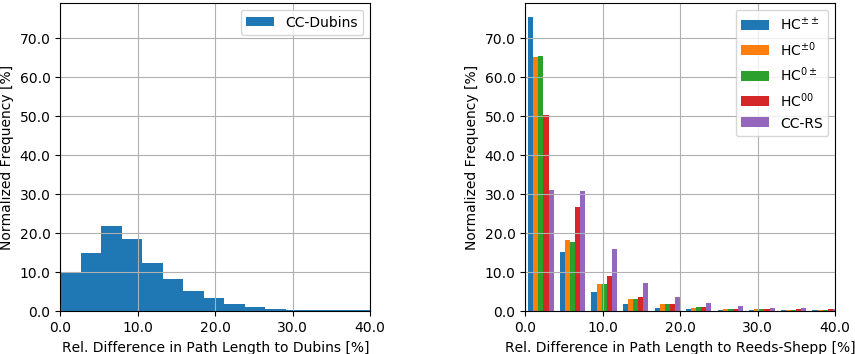
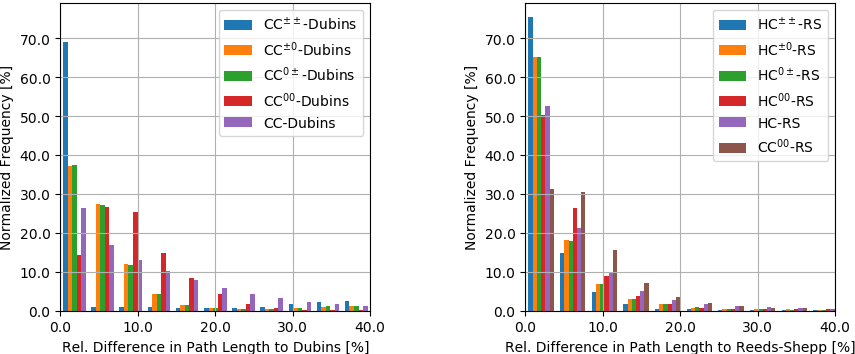
Updated README

diff --git a/README.md b/README.md
@@ -9,10 +9,8 @@ Steering Function           | Driving Direction          | Continuity       | Op
 Dubins                      | forwards **or** backwards  | G<sup>1</sup> | path length (optimal)
 CC-Dubins                   | forwards **or** backwards  | G<sup>2</sup> | path length (suboptimal)
 Reeds-Shepp                 | forwards **and** backwards | G<sup>1</sup> | path length (optimal)
-HC-Reeds-Shepp<sup>*</sup>  | forwards **and** backwards | G<sup>2</sup> btw. cusps | path length (suboptimal)
+HC-Reeds-Shepp              | forwards **and** backwards | G<sup>2</sup> btw. cusps | path length (suboptimal)
 CC-Reeds-Shepp              | forwards **and** backwards | G<sup>2</sup> | path length (suboptimal)
-
-<sub><sup>*</sup> HC-Reeds-Shepp is given with all its derivatives, namely HC<sup>00</sup>, HC<sup>0±</sup>, HC<sup>±0</sup>, and HC<sup>±±</sup>, where the superscript indicates the curvature at the start and goal configuration (± stands for maximum positive or negative curvature).</sub>
 
 [![Steering Functions for Car-Like Robots](https://img.youtube.com/vi/YCT8ycMk6f8/0.jpg)](http://www.youtube.com/watch?v=YCT8ycMk6f8)
 
@@ -132,9 +130,9 @@ In addition to that, this package is capable of computing a Gaussian belief alon
 ### Start and Goal State
 All steering functions expect a start state **x**<sub>*s*</sub> = *[x<sub>s</sub>, y<sub>s</sub>, theta<sub>s</sub>, kappa<sub>s</sub>, d<sub>s</sub>]<sup>T</sup>* and a goal state **x**<sub>*g*</sub> = *[x<sub>g</sub>, y<sub>g</sub>, theta<sub>g</sub>, kappa<sub>g</sub>, d<sub>g</sub>]<sup>T</sup>* as input. Note that the initial and final driving direction are selected by the steering function according to the computed path. They can not be selected manually, therefore, leave *d<sub>s</sub>* = *d<sub>g</sub>* = 0.
 
-Additonally, the steering functions Dubins, CC-Dubins, Reeds-Shepp, HC<sup>00</sup>-Reeds-Shepp, and CC-Reeds-Shepp only expect initial and final position and orientation, however, ignore manually set inital and final curvature. Therefore, it is recommended to set *kappa<sub>s</sub>* = *kappa<sub>g</sub>* = 0, and the steering function will select the appropriate values.
+Depending on the two superscripts in the name of the steering function (see Section *Computation Times* for an overview), a different curvature is applied to the start (first superscript) and goal state (second superscript). The superscript 0 denotes that zero curvature is enfored no matter which curvature is given at that state. The superscript ± indicates that either positive or negative max. curvature is selected by the steering function if the user inputs no curvature. However, if a non-zero curvature is assigned, the steering function computes that path with the corresponding signed maximum curvature. This feature can be useful in sampling-based motion planners when cuvature continuity has to be ensured at the connection of two extensions.
 
-In contrast to that, HC<sup>±0</sup>-, HC<sup>0±</sup>-, and HC<sup>±±</sup>-Reeds-Shepp allow to assign the signed maximum curvature to the start (HC<sup>±0</sup>), goal (HC<sup>0±</sup>), or to the start and goal state (HC<sup>±±</sup>). This feature can be useful in sampling-based motion planners when cuvature continuity has to be ensured at the connection of two extensions. If this feature is not desired, just set *kappa<sub>s</sub>* = *kappa<sub>g</sub>* = 0 and the steering function selects the initial and final curvature that minimizes the path length.
+Additionally, the steering functions CC-Dubins and HC-Reeds-Shepp compute a path that takes into account an arbitrary start and goal curvature specified by the user.
 
 
 ### Path Length Comparison
@@ -148,14 +146,20 @@ The following table shows the current computation times of the implemented steer
 
 Steering Function           | mean [µs] | std [µs]
 :---                        | :---      | :---
-CC-Dubins                   | 3.7       | ±1.2
-Dubins                      | 1.1       | ±0.3
-CC-Reeds-Shepp              | 52.6      | ±7.8
-HC<sup>00</sup>-Reeds-Shepp | 54.4      | ±7.7
-HC<sup>0±</sup>-Reeds-Shepp | 55.1      | ±8.2
-HC<sup>±0</sup>-Reeds-Shepp | 55.5      | ±8.3
-HC<sup>±±</sup>-Reeds-Shepp | 55.4      | ±8.9
-Reeds-Shepp                 | 7.0       | ±1.8
+Dubins                      | 1.3       | ±0.8
+CC<sup>±±</sup>-Dubins      | 7.1       | ±3.1
+CC<sup>±0</sup>-Dubins      | 5.6       | ±1.5
+CC<sup>0±</sup>-Dubins      | 5.6       | ±1.6
+CC<sup>00</sup>-Dubins      | 4.9       | ±1.5
+CC-Dubins                   | 14.8      | ±4.3
+                            |           |
+Reeds-Shepp                 | 7.4       | ±1.7
+HC<sup>±±</sup>-Reeds-Shepp | 58.1      | ±10.1
+HC<sup>±0</sup>-Reeds-Shepp | 56.4      | ±8.8
+HC<sup>0±</sup>-Reeds-Shepp | 51.0      | ±10.2
+HC<sup>00</sup>-Reeds-Shepp | 55.9      | ±9.5
+HC-Reeds-Shepp              | 464.3     | ±72.8
+CC<sup>00</sup>-Reeds-Shepp | 53.8      | ±8.4
 
 
 ### Interfacing with OMPL
